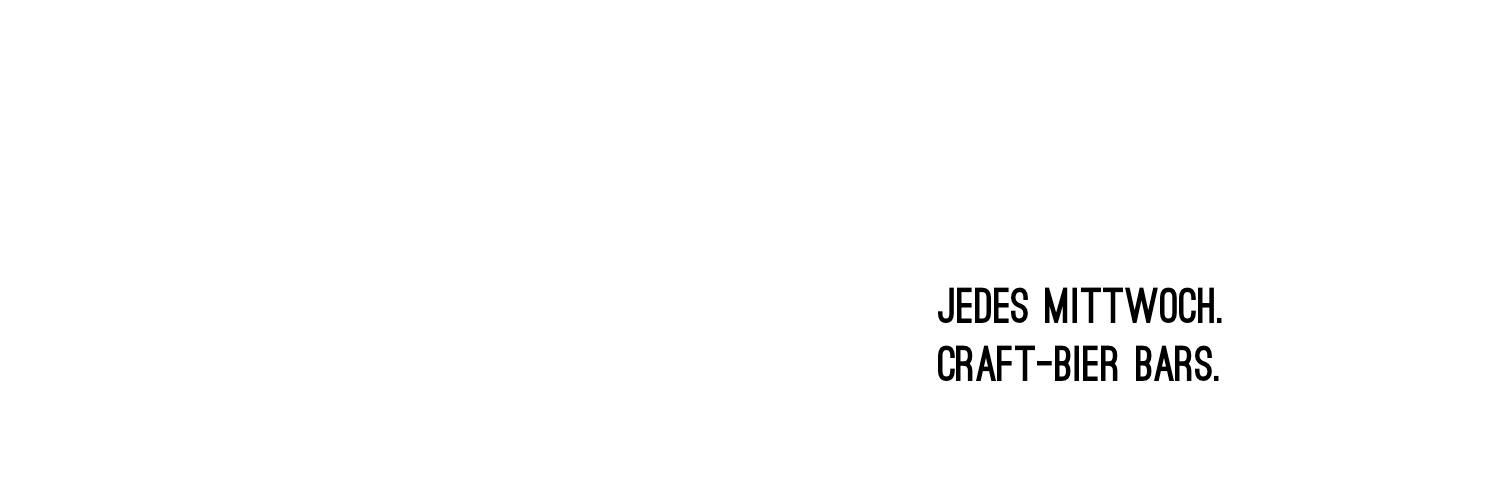
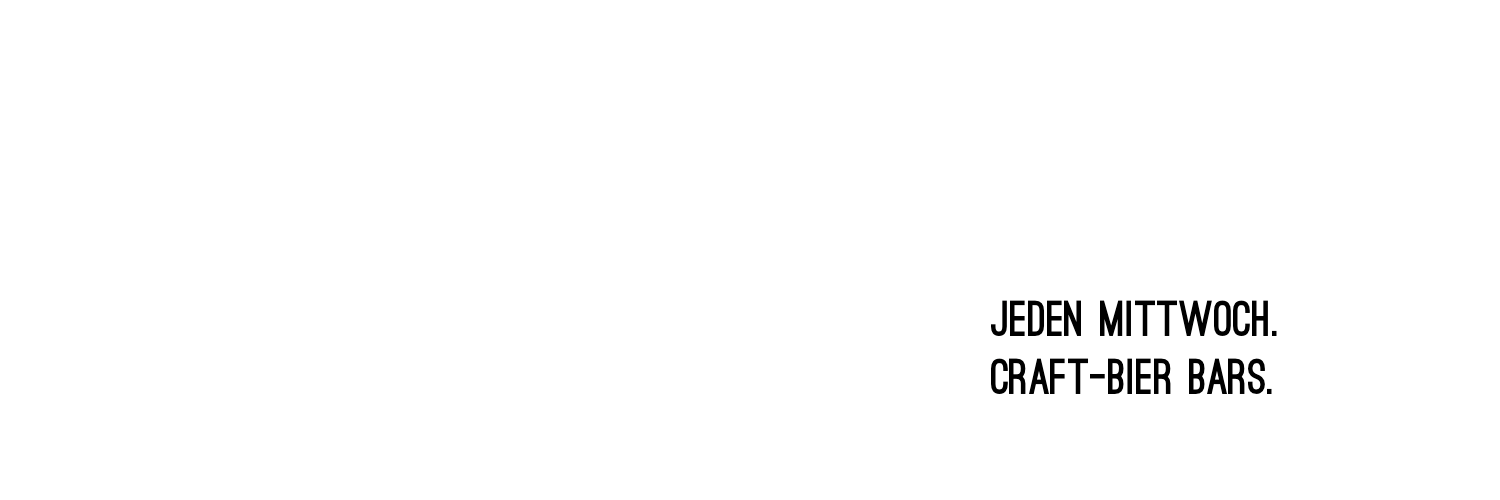
Updated. :v:

Changed region(s): [[0.6133, 0.57, 0.8587, 0.81]]

diff --git a/public/index.html b/public/index.html
@@ -14,21 +14,6 @@
     </header>
 
     
-      <h3 class="mittwochs-status mittwochs-status-today">Today</h3>
-      <div class="mittwochs">
-        
-          <div class="mittwoch">
-            <h4>
-              November  4, 2015
-              <small>@ 19:00</small>
-            </h4>
-            
-              <a href="http://doldenmaedel.de">Dolden Mädel</a><br />
-            
-          </div>
-        
-      </div>
-    
 
     
       <h3 class="mittwochs-status mittwochs-status-upcoming">Upcoming</h3>
@@ -50,6 +35,16 @@
     
       <h3 class="mittwochs-status mittwochs-status-previously">Previously</h3>
       <div class="mittwochs">
+        
+          <div class="mittwoch">
+            <h4>
+              November  4, 2015
+              <small>@ 19:00</small>
+            </h4>
+            
+              <a href="http://doldenmaedel.de">Dolden Mädel</a><br />
+            
+          </div>
         
           <div class="mittwoch">
             <h4>

diff --git a/README.md b/README.md
@@ -1,3 +1,3 @@
 ![](https://github.com/dylanegan/mittwoch.beer/raw/master/assets/readme.png)
 
-Jedes Mittwoch. Craft-Bier Bars.
+Jeden Mittwoch. Craft-Bier Bars.
